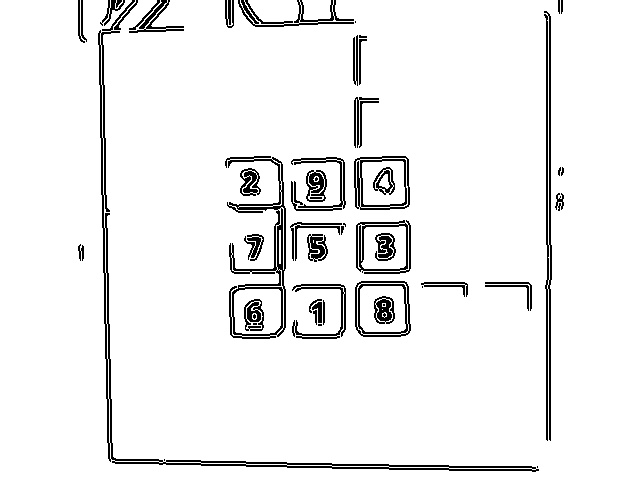
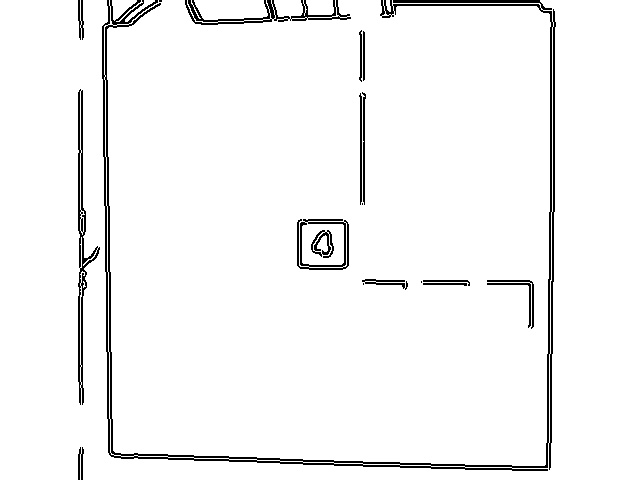
operações matemáticas com dois e três termos

Changed region(s): [[0.125, 0.0, 0.9062, 1.0], [0.125, 0.875, 0.8125, 1.0]]

diff --git a/cafetamtin/game/states/phase01.py b/cafetamtin/game/states/phase01.py
@@ -49,7 +49,8 @@ class Phase01(State):
 
         self.lives = 3
         self.score = 0
-        self.max_steps = 6
+        self.max_steps = 20
+        self.num_terms = 2
         self.step = 1
         self.incremental_points = 5
 
@@ -226,6 +227,14 @@ class Phase01(State):
     def starting_game(self):
         if not self.started:
             self.teacher.set_message(
+                "Nesta fase, você deve informar o resultado das\n"+
+                "operações matemáticas que são exibidas no monitor,\n"+
+                "posicionando o número correspondente ao resultado\n"+
+                "no local indicado no tabuleiro.",
+                "neutral0"
+            )
+            
+            self.teacher.set_message(
                 "Atenção!\n"+
                 "Prepare-se para começar", 
                 "neutral1"
@@ -242,6 +251,8 @@ class Phase01(State):
         response['paused_counter'] = self.timer_response.total_times_paused() - self.tips_times
         response['tips_counter'] = self.tips_times
         
+        terms, operators, result = self.challenge
+        
         if len(numbers) == 0:
             response['informed_result'] = -1
             response['is_correct'] = False
@@ -255,7 +266,7 @@ class Phase01(State):
             self.lives -= 1
 
         if len(numbers) == 1:
-            if numbers[0] == self.challenge[3]:
+            if numbers[0] == result:
                 
                 response['informed_result'] = numbers[0]
                 response['is_correct'] = True
@@ -391,7 +402,13 @@ class Phase01(State):
         instruction_text_rect = instruction_text.get_rect(center=(screen_width/2, 120))
 
         font = pygame.font.SysFont(FONT_NAME, 72, False, False)
-        challenge_text = font.render(f'{self.challenge[0]} {self.challenge[1]} {self.challenge[2]}', True, (220,220,220))
+        expression = ''
+        numbers, operators, result = self.challenge
+        if self.num_terms == 2:
+            expression = f'{numbers[0]} {operators[0]} {numbers[1]}'
+        else:
+            expression = f'{numbers[0]} {operators[0]} {numbers[1]} {operators[1]} {numbers[2]}'
+        challenge_text = font.render(expression, True, (220,220,220))
         challenge_text_rect = challenge_text.get_rect(center=(screen_width/2, 220))
 
         if not self.show_teacher and not self.is_paused:
@@ -420,27 +437,45 @@ class Phase01(State):
         self.new_challenge = True
 
 
+
     def random_calc(self):
-        number1 = random.randrange(self.min_number,self.max_number)
-        number2 = random.randrange(self.min_number,self.max_number)
-        operator = self.operators.pop()
+        if self.num_terms == 2:
+            return self.random_calc_2_terms()
+        else:
+            return self.random_calc_3_terms()
+        
+    def random_calc_2_terms(self):
+        numbers = random.sample(range(1, 10), 3)
+        operators = []
+        operators.append(random.choice(['+', '-']))
         result = 0
-        if operator == '+':
-            if number1 + number2 > 9:
-                if number1 > number2:
-                    number1 = int(abs(number1 - number2))
-                else:
-                    number2 = int(abs(number1 - number2))
-            result = number1 + number2
-        if operator == '-':
-            if number1 == number2:
-                number1 = random.randrange(self.min_number,self.max_number)
-            if number1 < number2:
-                aux = number1
-                number1 = number2
-                number2 = aux
-            result = number1 - number2
-        return number1, operator, number2, result
+        
+        if operators[0] == '+':
+            result = numbers[0] + numbers[1]
+        else:
+            result = numbers[0] - numbers[1]
+            
+        if result < 1 or result > 9:
+            return self.random_calc_2_terms()
+        
+        return numbers, operators, result
+    
+    def random_calc_3_terms(self):
+        numbers = random.sample(range(1, 10), 3)
+        operators = []
+        operators.append(random.choice(['+']))
+        operators.append(random.choice(['+', '-']))
+        result = 0
+        
+        if operators[0] == '+':
+            if operators[1] == '+':
+                result = numbers[0] + numbers[1] + numbers[2]
+            else:
+                result = numbers[0] + numbers[1] - numbers[2]
+        if result < 1 or result > 9:
+            return self.random_calc_3_terms()
+        
+        return numbers, operators, result
 
     def draw_student_name(self):
         display = self.game.game_canvas
@@ -510,11 +545,20 @@ class Phase01(State):
     def save_challenge(self):
         user = DBUser[self.game.student.id]
         responses = []
+        numbers, operators, result = self.challenge
+        number1 = numbers[0]
+        number2 = numbers[1]
+        number3 = -99 if len(numbers) == 2 else numbers[2]
+        operator1 = operators[0]
+        operator2 = '' if len(operators) == 1 else operators[1]
+        
         challenge = DBChallengeP1(
-            number01 = self.challenge[0],
-            operator = self.challenge[1],
-            number02 = self.challenge[2],
-            expected_result = self.challenge[3],
+            number01 = number1,
+            operator01 = operator1,
+            number02 = number2,
+            operator02 = operator2,
+            number03 = number3,
+            expected_result = result,
             total_time = self.timer_challenge.total_time_seconds(),
             user = user
         )

diff --git a/cafetamtin/game/states/menu.py b/cafetamtin/game/states/menu.py
@@ -16,6 +16,7 @@
 # along with CaFE-TaMTIn Approach.  If not, see <http://www.gnu.org/licenses/>.
 
 import pygame
+import os
 
 from game.states.state import State
 from game.states.about import About
@@ -32,6 +33,12 @@ class Menu(MenuMixin, State):
         super().__init__(game) # or  State.__init__(self, game)
         self.menu_items = ['Novo jogo', 'Configurações', 'Sobre', 'Sair']
         self.menu_selection = 0
+        self.images = self.load_images()
+        
+    def load_images(self):
+        return {
+            'background': pygame.image.load(os.path.join("images", "background-initial.png")),
+        }
     
     def handle_events(self, events):
         self.game.app.physical_buttons.white_button.when_pressed = self.buttonUpChanged
@@ -93,10 +100,13 @@ class Menu(MenuMixin, State):
         screen_width, screen_height = self.game.GAME_WIDTH, self.game.GAME_HEIGHT
         offset_height = 0
 
-        display.fill(BACKGROUND_COLOR)
+        background = self.images['background']
+        display.blit(background, (0,0))
+        
+        top_position = screen_height/2 + 120
     
         for index, item in enumerate(self.menu_items):
             button = font.render('>>'+item+'<<' if index == self.menu_selection else item, True, TEXT_COLOR)
-            button_rect = button.get_rect(center=(screen_width/2, screen_height/2  + offset_height*30))
+            button_rect = button.get_rect(center=(screen_width/2, top_position  + offset_height*30))
             display.blit(button, button_rect)
             offset_height += 1

diff --git a/cafetamtin/base/recognizer.py b/cafetamtin/base/recognizer.py
@@ -59,7 +59,8 @@ class Recognizer:
         cv2.putText(img, label, (x-10,y-10), cv2.FONT_HERSHEY_SIMPLEX, 0.5, color, 2)
     
     def inside_limits(self, x, y):
-        if not self.board.top_left or not self.board.top_right or not self.board.bottom_left or not self.board.bottom_right:
+        
+        if not self.board.top_left[0] or not self.board.top_right[0] or not self.board.bottom_left[0] or not self.board.bottom_right[0]:
             return False
         if x >= self.board.top_left[0] and x <= self.board.top_right[0] and y >= self.board.top_left[1] and y <= self.board.bottom_right[1]:
             return True

diff --git a/cafetamtin/database/models.py b/cafetamtin/database/models.py
@@ -52,12 +52,14 @@ class DBUser(db.Entity):
 class DBChallengeP1(db.Entity):
     id = PrimaryKey(int, auto=True)
     number01 = Required(int)
-    operator = Required(str, 1)
+    operator01 = Required(str, 1)
     number02 = Required(int)
+    operator02 = Optional(str, nullable=True)
+    number03 = Optional(int)
     expected_result = Required(int)
     total_time = Required(float)
-    user = Required(DBUser)
     responsesp1 = Set('DBResponseP1')
+    user = Required(DBUser)
 
 class DBResponseP1(db.Entity):
     id = PrimaryKey(int, auto=True)

diff --git a/cafetamtin/game/__init__.py b/cafetamtin/game/__init__.py
@@ -15,8 +15,8 @@
 # You should have received a copy of the GNU General Public License
 # along with CaFE-TaMTIn Approach.  If not, see <http://www.gnu.org/licenses/>.
 
-BACKGROUND_COLOR = (16, 74, 139)
-TEXT_COLOR = (216, 220, 81)
+BACKGROUND_COLOR = (22, 96, 180)
+TEXT_COLOR = (246, 196, 5)
 TEXT_DISABLE_COLOR = (120, 120, 120)
 ERROR_COLOR = (216, 10, 10)
 FONT_NAME = 'Arial'

diff --git a/cafetamtin/game/game.py b/cafetamtin/game/game.py
@@ -45,7 +45,7 @@ class Game():
         self.student = None
 
         #pygame.mouse.set_visible(0)
-        pygame.display.set_caption('CaFE-TaMTIn')
+        pygame.display.set_caption('Jogo do 15 - CaFE-TaMTIn')
 
         self.clock = pygame.time.Clock()
         self.dt = self.clock.tick(60)

diff --git a/cafetamtin/application.py b/cafetamtin/application.py
@@ -58,7 +58,7 @@ def main(argv):
 
     db.generate_mapping(create_tables=True)
 
-    #create_user()
+    create_user()
 
     app = Application()
     app.game.loop()
